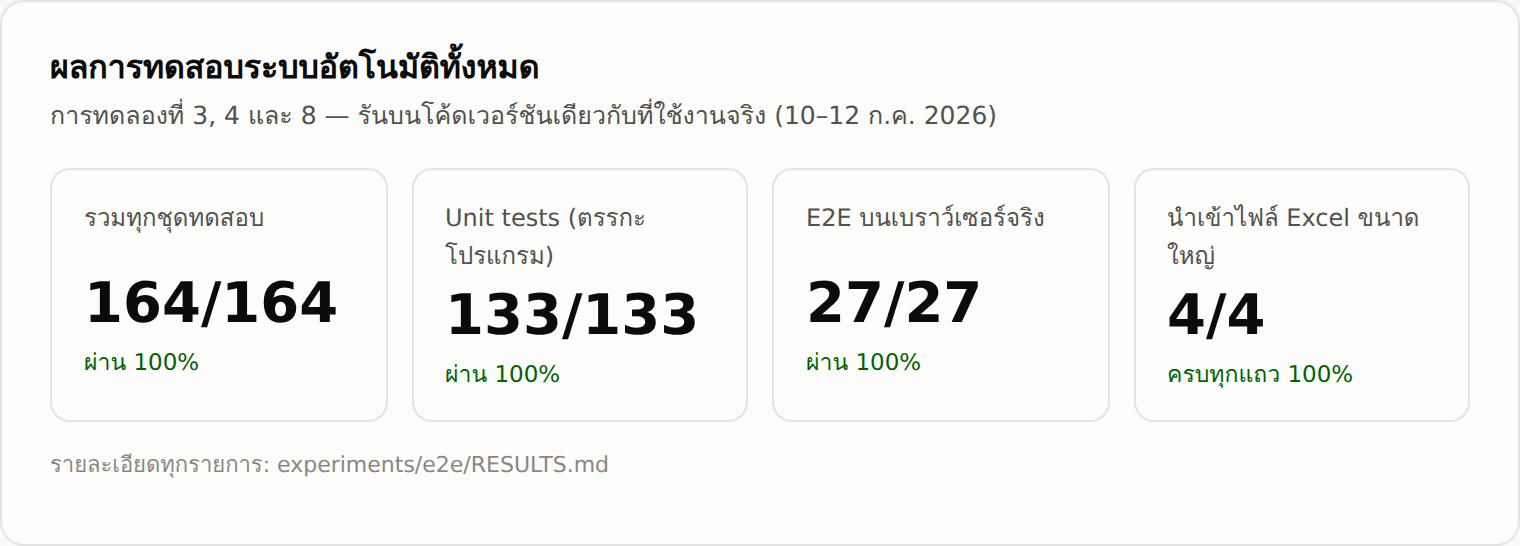
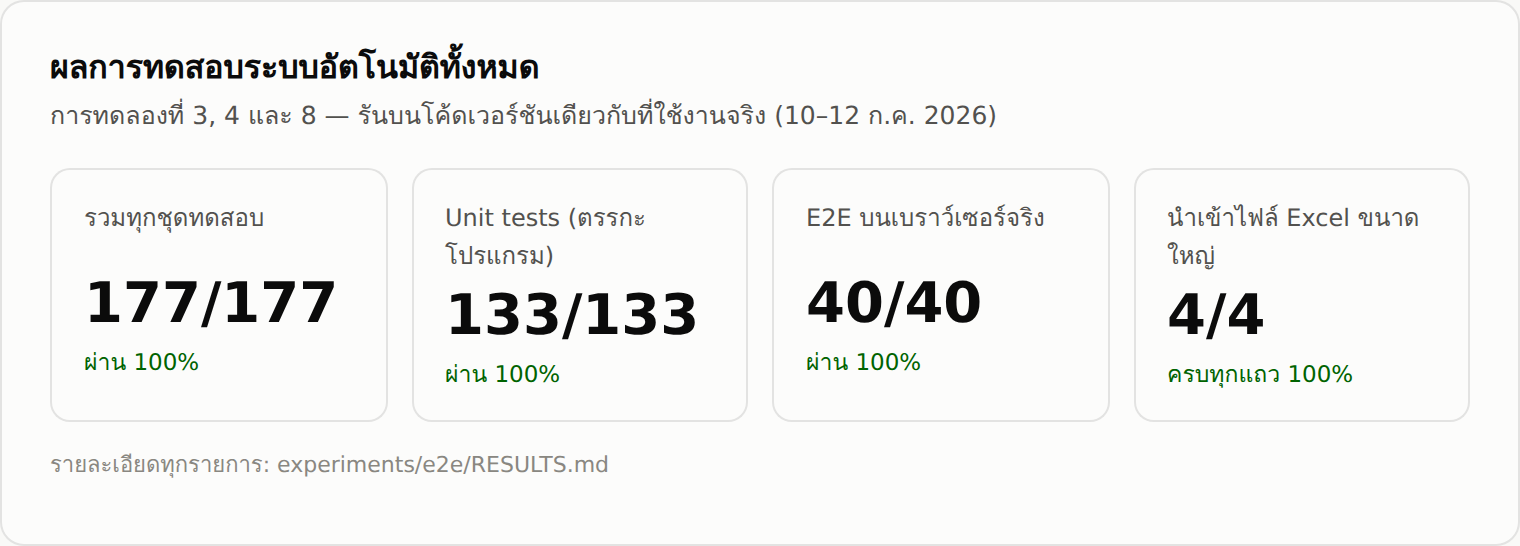
test: E2E ภาค 2 (13 ขั้น) — หนี้สิน/เป้าหมายออม/CSV/ความทน/จอแคบ + แก้บั๊กหน้าสรุปล้นจอ
- drive2.mjs: หนี้สิน 3, เป้าหมายออม 2, CSV 3, API ล่มไม่ค้าง 1, จอ 360px 4 — ผ่านครบ
- พบและแก้จริง: หัวหน้าสรุปล้นแนวนอน 32px บนจอแคบ (เพิ่ม flex-wrap)
- mock เติมค่า DEFAULT ของคอลัมน์ตาม schema จริง (insert แล้ว current_amount ฯลฯ ไม่หาย)
- รวมทดสอบอัตโนมัติ 177/177 = 100% + ภาพหลักฐาน E2E ทุกขั้น

Claude-Session: https://claude.ai/code/session_01YNfYzMAdbcc5CAtyEwB4Pv

Changed region(s): [[0.5257, 0.4982, 0.6493, 0.5916], [0.0618, 0.4982, 0.2164, 0.5916]]

diff --git a/experiments/report-charts/charts.html b/experiments/report-charts/charts.html
@@ -152,7 +152,7 @@
   <div class="tiles">
     <div class="tile">
       <div class="label">รวมทุกชุดทดสอบ</div>
-      <div class="value">164/164</div>
+      <div class="value">177/177</div>
       <div class="sub">ผ่าน 100%</div>
     </div>
     <div class="tile">
@@ -162,7 +162,7 @@
     </div>
     <div class="tile">
       <div class="label">E2E บนเบราว์เซอร์จริง</div>
-      <div class="value">27/27</div>
+      <div class="value">40/40</div>
       <div class="sub">ผ่าน 100%</div>
     </div>
     <div class="tile">

diff --git a/src/components/screens/Summary.tsx b/src/components/screens/Summary.tsx
@@ -397,8 +397,8 @@ export function Summary({ transactions, recurringTransactions }: SummaryProps) {
 
   return (
     <div className="pb-20 px-4 pt-6">
-      <div className="flex items-center justify-between mb-6">
-        <div className="flex items-center gap-4">
+      <div className="flex flex-wrap items-center justify-between gap-y-2 mb-6">
+        <div className="flex items-center gap-2 min-w-0">
           <Link to="/">
             <Button variant="ghost" size="icon">
               <ArrowLeft className="h-5 w-5" />

diff --git a/src/lib/version.ts b/src/lib/version.ts
@@ -1,2 +1,2 @@
 // ตัวเลขเวอร์ชันที่แสดงบนหน้า login — อัปเดตทุกครั้งที่อยากพิสูจน์ว่า deploy ใหม่ถึงผู้ใช้แล้ว
-export const APP_VERSION = "8 ก.ค. 2026-a";
+export const APP_VERSION = "12 ก.ค. 2026-a";

diff --git a/experiments/e2e/RESULTS.md b/experiments/e2e/RESULTS.md
@@ -40,6 +40,19 @@
 | 10 | ทั้ง 5 รายการบันทึกลงฐานข้อมูลจริง | ✅ |
 | 11 | แถวเสียไม่ถูกนำเข้า | ✅ |
 
+### 4.3 ระบบเสริม + ความทนทาน — ผ่าน 13 / 13 ขั้น (100%) (รันจริง 12 ก.ค. 2026)
+
+| # | สิ่งที่ทดสอบ | ผล |
+|---|---|---|
+| 1–3 | หนี้สิน: เพิ่ม → แสดงยอดถูก → reload แล้วข้อมูลคงอยู่ | ✅ |
+| 4–5 | เป้าหมายออม: สร้าง → เพิ่มเงินออม 1,200 → ยอดสะสมอัปเดต | ✅ |
+| 6–8 | นำเข้า CSV: อ่านถูก + กันแถวเสีย + แปลงปี พ.ศ. + นำเข้าสำเร็จ | ✅ |
+| 9 | จำลอง API ตั้งค่าล่ม → แอปยังเข้าได้ ไม่หมุนค้าง (failsafe ทำงาน) | ✅ |
+| 10–13 | จอมือถือแคบ 360px: 4 หน้าหลักไม่มีล้นแนวนอน | ✅ |
+
+**บั๊กที่การทดสอบนี้ตรวจพบและแก้แล้ว**: หัวหน้าสรุปมีปุ่มล้นจอแนวนอน 32px บนจอ 360px
+(แก้โดยให้แถวปุ่มตัดขึ้นบรรทัดใหม่ได้) — เป็นหลักฐานว่าการทดสอบอัตโนมัติจับปัญหาจริงได้
+
 ## การทดลองที่ 5: ความเร็วโหลดแอป (5 รอบ ไม่มี cache)
 
 | รอบ | แสดงผลแรก (FCP) | DOM พร้อม | โหลดครบ |
@@ -88,7 +101,7 @@
 
 ## สรุปสำหรับรูปเล่ม
 
-ระบบผ่านการทดสอบอัตโนมัติทั้งหมด **164 รายการ (133 unit + 27 E2E + 4 ขนาดไฟล์ Excel) คิดเป็น 100%**
+ระบบผ่านการทดสอบอัตโนมัติทั้งหมด **177 รายการ (133 unit + 40 E2E + 4 ขนาดไฟล์ Excel) คิดเป็น 100%**
 หน้าแรกโหลดโดยใช้ข้อมูลเพียง ~209 KB — แสดงผลแรก 119 ms (เครือข่ายภายใน), 365 ms (4G จำลอง), 1.4 s (3G จำลอง)
 และระบบนำเข้า Excel รองรับไฟล์ 10,000 แถวโดยไม่มีข้อมูลตกหล่น
 

diff --git a/experiments/e2e/README.md b/experiments/e2e/README.md
@@ -27,9 +27,13 @@ npx vite preview --host 127.0.0.1 --port 8080
 
 # เทอร์มินัล 3 — รันการทดสอบ
 node experiments/e2e/drive.mjs      # E2E ฟีเจอร์หลัก 16 ขั้น
+node experiments/e2e/drive2.mjs     # E2E ภาค 2: หนี้สิน/เป้าหมายออม/CSV/API ล่ม/จอแคบ 13 ขั้น
 node experiments/e2e/xlsx-e2e.mjs   # E2E นำเข้า Excel ครบวงจร 11 ขั้น
 node experiments/e2e/perf-test.mjs  # วัดความเร็วโหลด 5 รอบ
 ```
+
+> ⚠️ `drive.mjs` มีเช็ค "วิดเจ็ตซ่อนเมื่อไม่มีข้อมูล" — ต้องรันบน mock ที่เพิ่งเปิดใหม่ (DB ว่าง)
+> ถ้ารันสลับชุด ให้รีสตาร์ต `mock-supabase.mjs` ก่อนแต่ละชุด
 
 > ⚠️ สำคัญ: อย่าลืม build ใหม่แบบปกติ (`npm run build` เฉย ๆ) ก่อน deploy จริง
 > เพราะ build ข้างบนชี้ฐานข้อมูลจำลอง